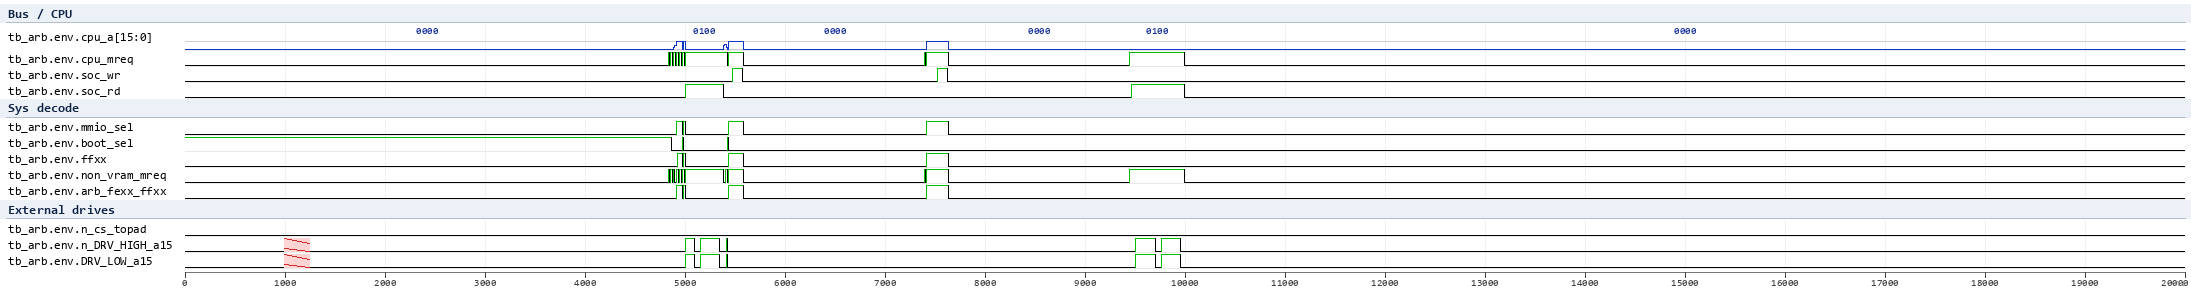
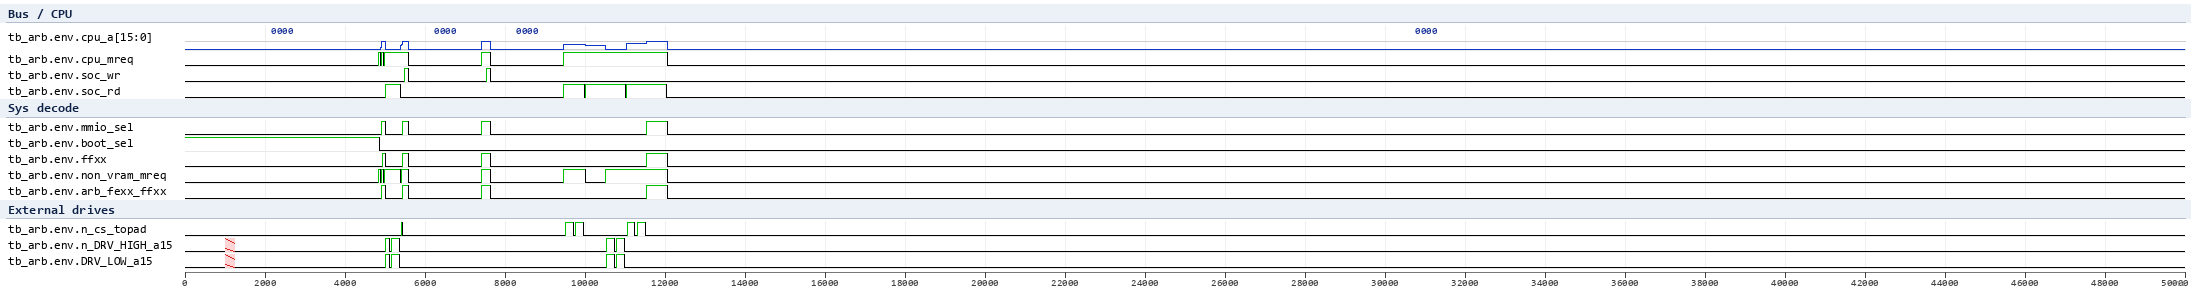
waves: tb_div section + regenerate ser/mmio/div/arb PNGs (issue #396)

diff --git a/HDL/soc/icarus/soc/waves.md b/HDL/soc/icarus/soc/waves.md
@@ -89,6 +89,19 @@ Verified (tb_hram PASS, compiled with -DNO_SER):
   register decode clocks) and mirrors the netlist's window decode
   ffxx & a[7] & (a[6:0] != 0x7F).
 
+## tb_div - DIV counter
+
+DIV reset-to-zero on a $FF04 write, clean read-back (mmio_weakbus.v),
+counting at the lfo rate, 8-bit wrap, and the FF60_D1 fast mode probe.
+
+![tb_div](waves/tb_div.png)
+
+Verified (tb_div PASS):
+- after the $FF04 write DIV reads ~0, then counts one per lfo cycle
+  (0x80 after 128 lfo cycles) and wraps at 256.
+- FF60_D1 = 1 (TEST_PAD.1, DIV clocked by clk9): read ~0x0C in the
+  window - clk9-driven, exact source taps under analysis.
+
 ## tb_testmode - TEST1/TEST2 decode
 
 Pad decode of the test pins through the real MMIO test-mode logic.
